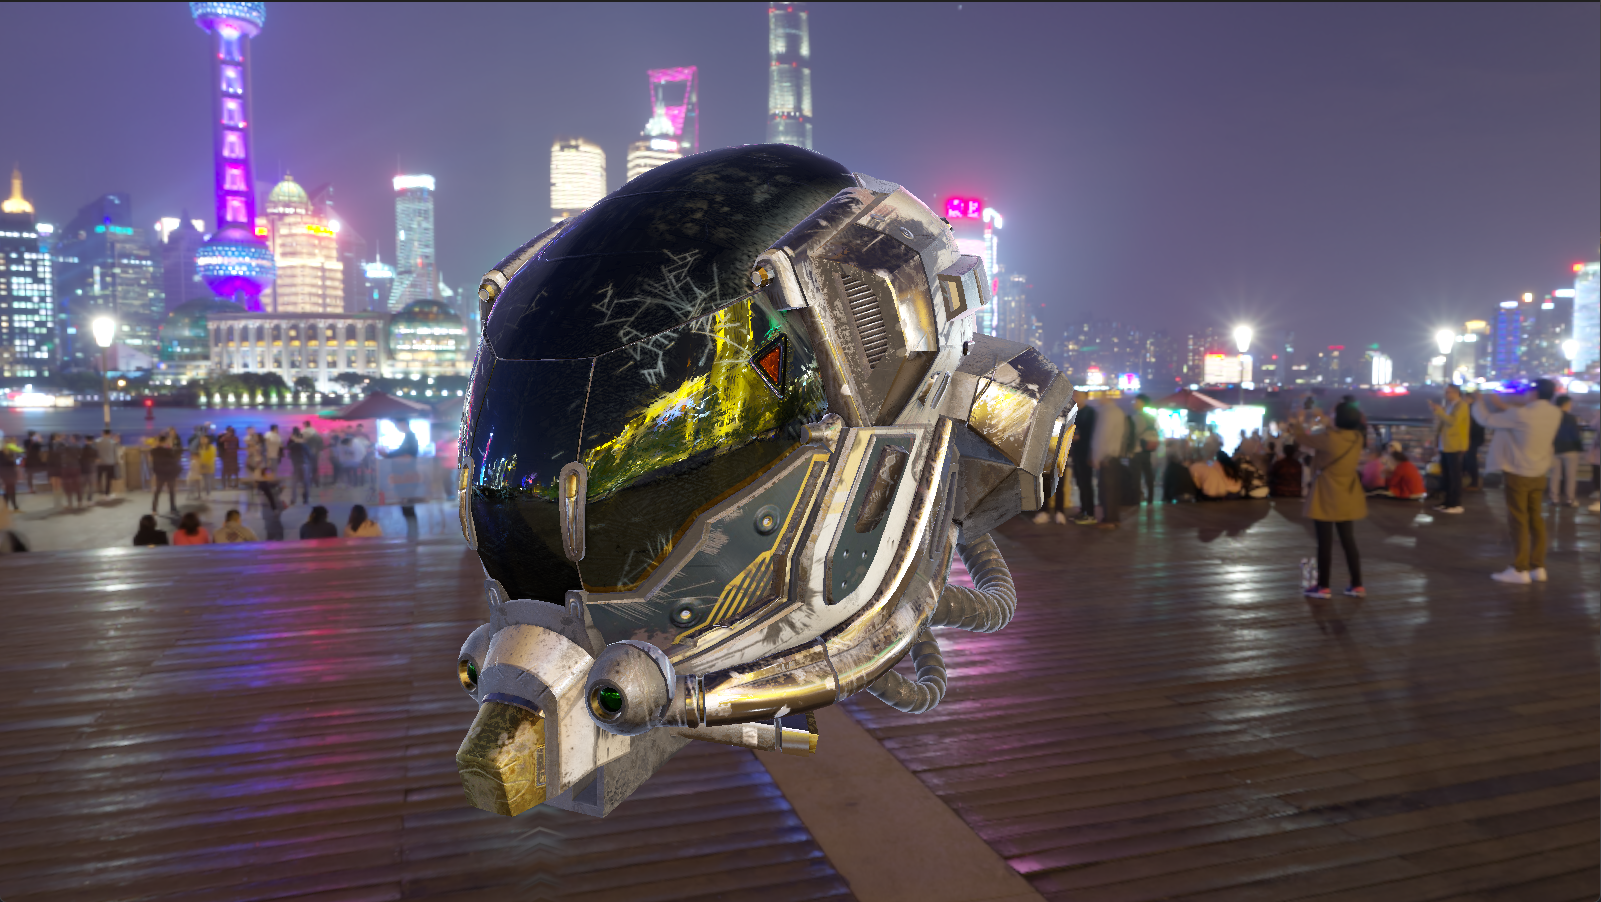
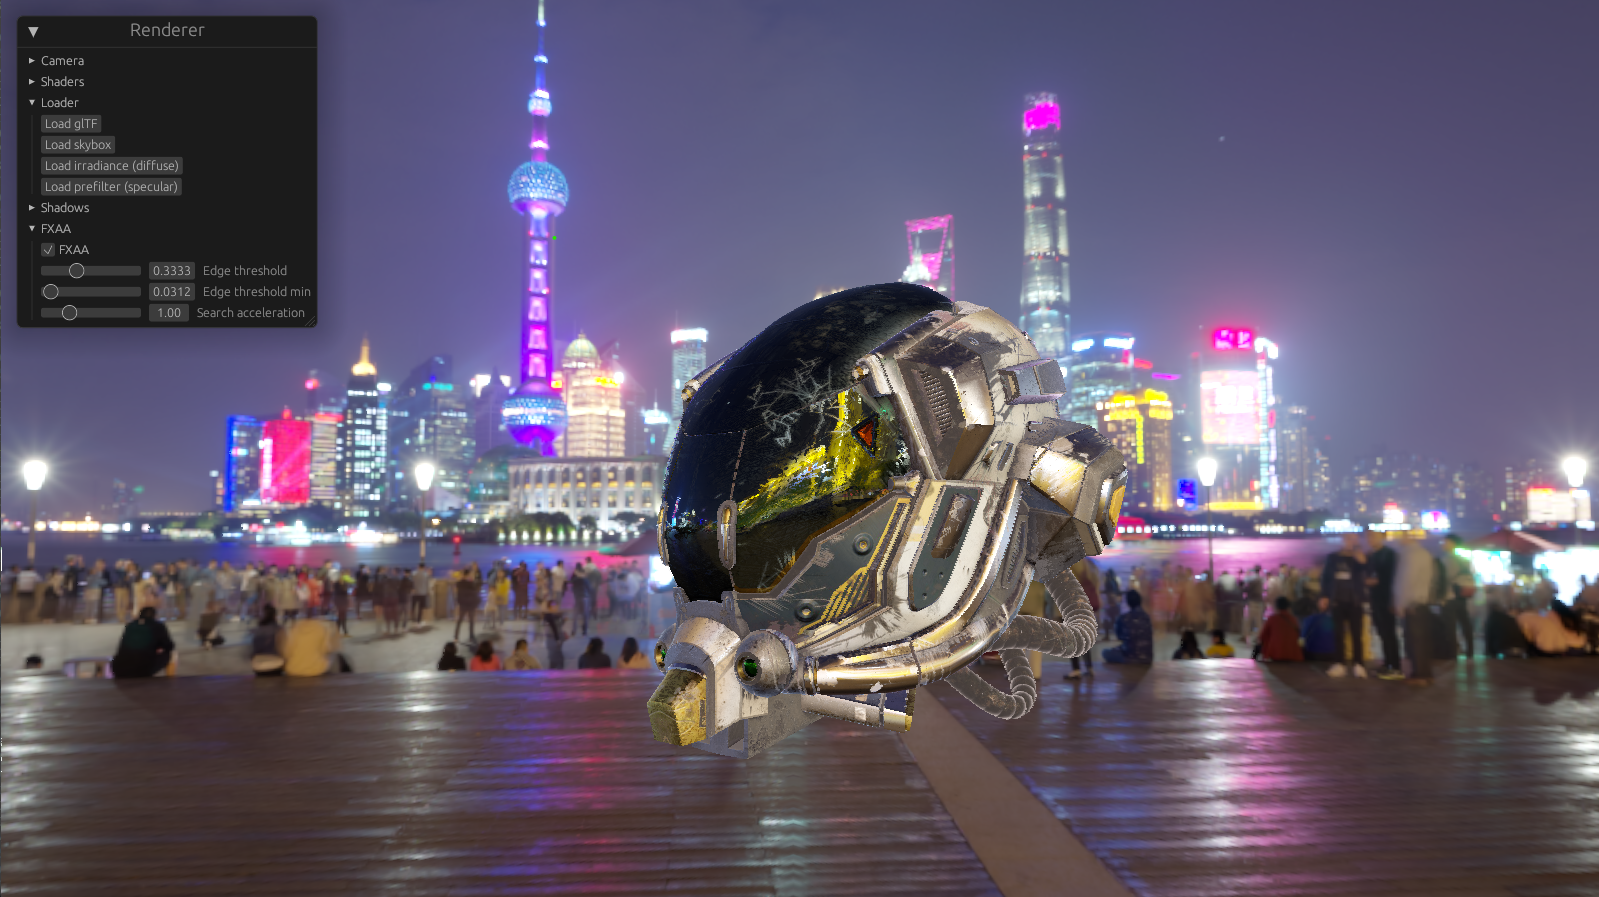
0.4

diff --git a/src/renderer.rs b/src/renderer.rs
@@ -358,37 +358,12 @@ impl Renderer {
                     .text("Edge threshold min"),
                 );
                 ui.add(
-                    egui::Slider::new(&mut self.egui_state.fxaa_params.subpix, 0.0..=2.0)
-                        .step_by(1.0)
-                        .text("Subpix filtering"),
-                );
-                ui.add(
-                    egui::Slider::new(&mut self.egui_state.fxaa_params.subpix_trim, 0.0..=1.0)
-                        .step_by(1.0 / 8.0)
-                        .text("Subpix filtering trim"),
-                );
-                ui.add(
-                    egui::Slider::new(&mut self.egui_state.fxaa_params.subpix_cap, 0.0..=1.0)
-                        .step_by(1.0 / 8.0)
-                        .text("Subpix filtering cap"),
-                );
-                ui.add(
-                    egui::Slider::new(&mut self.egui_state.fxaa_params.search_steps, 0.0..=16.0)
-                        .step_by(1.0)
-                        .text("Search steps"),
-                );
-                ui.add(
                     egui::Slider::new(
                         &mut self.egui_state.fxaa_params.search_acceleration,
                         0.0..=4.0,
                     )
                     .step_by(1.0)
                     .text("Search acceleration"),
-                );
-                ui.add(
-                    egui::Slider::new(&mut self.egui_state.fxaa_params.search_threshold, 0.0..=1.0)
-                        .step_by(1.0 / 16.0)
-                        .text("Search threshold"),
                 );
             })
         });

diff --git a/src/passes/fxaa.rs b/src/passes/fxaa.rs
@@ -17,12 +17,8 @@ use super::ReloadableShaders;
 pub struct FxaaParams {
     pub edge_threshold: f32,
     pub edge_threshold_min: f32,
-    pub subpix: f32,
-    pub subpix_trim: f32,
-    pub subpix_cap: f32,
-    pub search_steps: f32,
     pub search_acceleration: f32,
-    pub search_threshold: f32,
+    pub padding: [f32; 5],
 }
 bytemuck_impl!(FxaaParams);
 
@@ -31,12 +27,8 @@ impl Default for FxaaParams {
         FxaaParams {
             edge_threshold: 1.0 / 3.0,
             edge_threshold_min: 1.0 / 32.0,
-            subpix: 0.0,
-            subpix_trim: 1.0 / 2.0,
-            subpix_cap: 1.0,
-            search_steps: 5.0,
             search_acceleration: 1.0,
-            search_threshold: 1.0 / 4.0,
+            padding: [0.0, 0.0, 0.0, 0.0, 0.0],
         }
     }
 }

diff --git a/README.md b/README.md
@@ -1,6 +1,6 @@
 # OceanMan
 
-OceanMan is a real-time renderer focused on realism. It is developed using Rust, WebGPU, and wgpu. It is currently in version 0.3.
+OceanMan is a work-in-progress real-time renderer focused on realism. It is developed using Rust, WebGPU, and wgpu. It is currently in version 0.4.
 
 ## Installation.
 
@@ -19,15 +19,18 @@ oceanman scene.gltf environment.dds irradiance.dds prefilter.dds
 ```
 
 ## Features
-
+* Deferred rendering
 * Physically based shading (Cook-Torrance BRDF)
 * Image-based lighting
+* FXAA
+* Uncharted 2 Filmic tonemapping
+* Debug UI with reloadable shaders, camera & FXAA config, & loader
 * glTF scene support - loads in color, metal/roughness, and normal maps
-* Basic scene camera
 
 ## Images
 ![Damaged helmet](screenshots/one.png)
 ![Water bottle](screenshots/two.png)
+![Fighter helmet](screenshots/three.png)
 
 ## License
 
